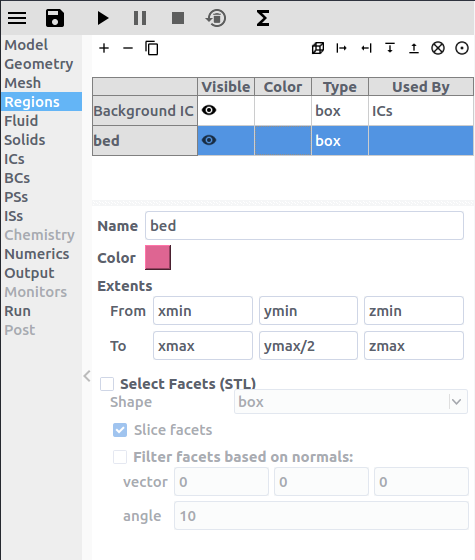
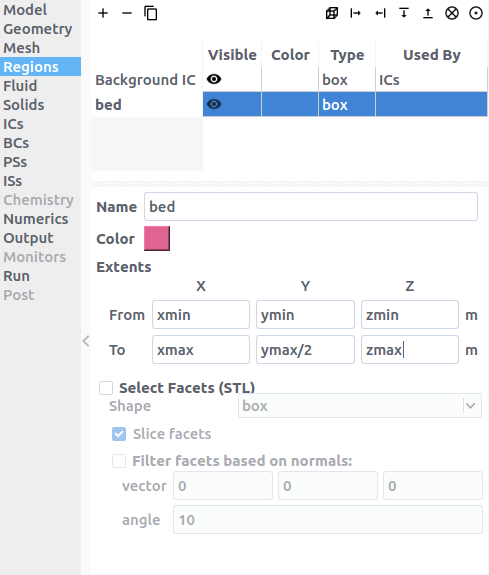
changed filter loc on new, added tutorial thumbnails on help, add x,y,z to regions, updated tfm tutorial

diff --git a/mfixgui/main_menu.py b/mfixgui/main_menu.py
@@ -217,20 +217,26 @@ class MainMenu(object):
         nw_layout.addWidget(l, 0, 0, 1, -1)
 
         fw = QtWidgets.QWidget()
+        fw.setSizePolicy(QtWidgets.QSizePolicy.Expanding, QtWidgets.QSizePolicy.Maximum)
         nw_layout.addWidget(fw, 1, 0, 1, -1)
         fw_layout = QtWidgets.QHBoxLayout(fw)
         fw_layout.setContentsMargins(0, 0, 0, 0)
 
+        hspacer = QtWidgets.QSpacerItem(100, 10, QtWidgets.QSizePolicy.MinimumExpanding, QtWidgets.QSizePolicy.Maximum,)
+        fw_layout.addSpacerItem(hspacer)
+
+        f_label = QtWidgets.QLabel('Filter By')
+        f_label.setSizePolicy(QtWidgets.QSizePolicy.Maximum, QtWidgets.QSizePolicy.Maximum)
+        nw_layout.addWidget(f_label, 10, 0)
+
         self.main_menu_new_enable_list = [True]*7
         for i, f in enumerate(['Single', 'TFM', 'PIC', 'DEM', 'Hybrid', 'Cartesian', 'Chemistry']):
-            cb = QtWidgets.QCheckBox()
+            cb = QtWidgets.QCheckBox(f)
             cb.setIcon(get_icon('geometry.png' if f == 'Cartesian' else f.lower()+'.png'))
             cb.setChecked(True)
             cb.setToolTip(f)
             cb.toggled.connect(lambda checked, idx=i: self.main_menu_filter_new(idx, checked))
-            fw_layout.addWidget(cb)
-        hspacer = QtWidgets.QSpacerItem(100, 10, QtWidgets.QSizePolicy.MinimumExpanding, QtWidgets.QSizePolicy.Maximum,)
-        fw_layout.addSpacerItem(hspacer)
+            nw_layout.addWidget(cb, 11+i, 0)
 
         lw = self.ui.main_menu_new_list = QtWidgets.QListWidget()
         lw.setFrameStyle(lw.NoFrame)
@@ -238,7 +244,7 @@ class MainMenu(object):
         lw.setUniformItemSizes(True)
         lw.setResizeMode(QtWidgets.QListWidget.Adjust)
         lw.itemDoubleClicked.connect(self.handle_main_menu_new_proect)
-        nw_layout.addWidget(lw, 2, 0, 1, -1)
+        nw_layout.addWidget(lw, 10, 1, 10, 1)
 
         tb_l = QtWidgets.QToolButton()
         tb_l.setIcon(get_icon('list.png'))
@@ -428,7 +434,6 @@ class MainMenu(object):
         l.setSizePolicy(label_policy)
         hw_layout.addWidget(l, 0, 0, 1, -1)
 
-        hw_layout.addItem(QtWidgets.QSpacerItem(100, 100, QtWidgets.QSizePolicy.Maximum, QtWidgets.QSizePolicy.MinimumExpanding,), 1, 0)
 
         # link only works after running: python setup.py build_doc
         def open_user_guide(linkStr):
@@ -437,7 +442,6 @@ class MainMenu(object):
         for i, help_text in enumerate([
             'See <a href="%s">User Guide</a> for documentation on using the GUI' % path2url(os.path.join(SCRIPT_DIRECTORY, 'doc', 'USER_GUIDE.html')),
             'See <a href="%s">Setup Guide</a> for documentation on building custom mfixsolvers' % path2url(os.path.join(SCRIPT_DIRECTORY, 'doc', 'SETUP_GUIDE.html')),
-            'See <a href="%s">Tutorials</a> text based model setup tutorials' % path2url(os.path.join(SCRIPT_DIRECTORY, 'doc', 'TUTORIALS.html')),
             ]):
 
             help_info = QtWidgets.QLabel(help_text)
@@ -447,7 +451,33 @@ class MainMenu(object):
             help_info.setOpenExternalLinks(True)
             hw_layout.addWidget(help_info, 10+i, 0, 1, -1)
 
-        hw_layout.addItem(QtWidgets.QSpacerItem(100, 100, QtWidgets.QSizePolicy.Maximum, QtWidgets.QSizePolicy.MinimumExpanding,), 100, 0)
+        # tutorial icons
+        hw_layout.addItem(QtWidgets.QSpacerItem(100, 20, QtWidgets.QSizePolicy.Maximum, QtWidgets.QSizePolicy.Maximum,), 100, 0)
+
+        hw_layout.addWidget(QtWidgets.QLabel('<b>Tutorials</b>'), 101, 0)
+
+        tut_lw = QtWidgets.QListWidget()
+        tut_lw.setFrameStyle(tut_lw.NoFrame)
+        tut_lw.setIconSize(QtCore.QSize(128, 128))
+        tut_lw.setUniformItemSizes(True)
+        tut_lw.setResizeMode(QtWidgets.QListWidget.Adjust)
+        hw_layout.addWidget(tut_lw, 120, 0, 1, -1)
+
+        for image, tutorial in [
+                ('gui_tfm_2d_thumbnail.png', 'two-dimensional-fluid-bed-two-fluid-model-tfm'),
+                ('gui_tfm_2d_thumbnail.png', 'two-dimensional-fluid-bed-discrete-element-model-dem')]:
+            icon = QtGui.QIcon(os.path.join(SCRIPT_DIRECTORY, 'doc', 'media', image))
+            text = tutorial.replace('-', ' ').title()
+            text = '<b>%s</b><p><a href="%s">Text</a> | Video</p>' % (
+                text, path2url(os.path.join(SCRIPT_DIRECTORY, 'doc',
+                                            'TUTORIALS.html')) + '#' + tutorial)
+            label = QtWidgets.QLabel(text)
+            label.linkActivated.connect(open_user_guide)
+            item = QtWidgets.QListWidgetItem()
+            item.setIcon(icon)
+            item.setFlags(QtCore.Qt.ItemIsEnabled)
+            tut_lw.addItem(item)
+            tut_lw.setItemWidget(item, label)
 
         # --- build about ---
         aw = self.ui.main_menu_about_widget = QtWidgets.QWidget()

diff --git a/doc/TUTORIALS.md b/doc/TUTORIALS.md
@@ -1,8 +1,6 @@
-# Tutorials
+# Basic Tutorials
 
-## Basic Tutorials
-
-### 2 Dimensional Fluid Bed, Two Fluid Model (TFM)
+## Two Dimensional Fluid Bed, Two Fluid Model (TFM)
 
 This tutorial shows how to create a two dimensional fluidized bed simulation
 using the two fluid model. The model setup is:
@@ -27,7 +25,7 @@ button
 > Note: A new project directory will be created in the location directory, with
 > the name being the project name.
 
-<img alt="create project" src="media/gui_new_project.png" style="width:800;height:600" />
+<img alt="create project" src="media/gui_new_project.png" style="width:300;height:300" />
 
 #### Step 2. Select model parameters
 - On the `Model` pane, enter a descriptive text in the `Description` field
@@ -215,7 +213,7 @@ files.
 <img alt="create project" src="media/gui_tfm_2d_vtk_view.png" style="width:800;height:600" />
 
 
-### 2 Dimensional Fluid Bed, Discrete Element Model (DEM)
+## Two Dimensional Fluid Bed, Discrete Element Model (DEM)
 
 This tutorial shows how to create a two dimensional fluidized bed simulation
 using the Discrete Element Model. The model setup is:
